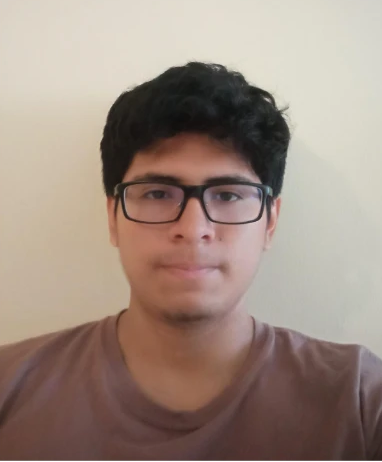
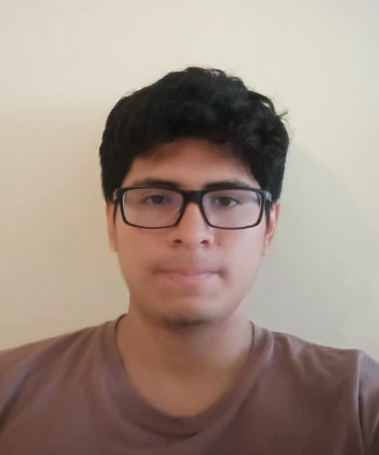
fix: corrected route mathias's picture
i fixed the route of the tag image.

diff --git a/upc-pre-202402-cc238-SW63-techzo-report.md b/upc-pre-202402-cc238-SW63-techzo-report.md
@@ -69,7 +69,7 @@ A continuación, presentaremos los perfiles de los integrantes del equipo encarg
 | **Integrante**                         | **Perfil**                                                                                                                                                                                                                                                                                                                                                                                                                                                                                                | **Imagen**                                                                                                       |
 | -------------------------------------- | --------------------------------------------------------------------------------------------------------------------------------------------------------------------------------------------------------------------------------------------------------------------------------------------------------------------------------------------------------------------------------------------------------------------------------------------------------------------------------------------------------- | ---------------------------------------------------------------------------------------------------------------- |
 | **Huamani Mandujano, Joseph Alexis - u20221a133**             |Mi nombre es Joseph Huamani, soy estudiante de 5to ciclo en la carrera de Ingeniería de Software en la UPC. La razón por la cual elegí esta carrera es porque desde pequeño siempre me ha gustado la tecnología, el cómo es el funcionamiento y la creación de los programas que uso en mí día a día.  Por ello, en este curso me  comprometo a ser un buen integrante para mi grupo y dar lo  mejor de mí en los trabajos con las habilidades técnicas como dominio en los lenguajes C++, Python y Javascript y habillidades blandas como trabajo en equipo, responsabillidad y resolución de problemas. | <img src="https://github.com/MaCo-CC238-SW63/Report/blob/main/Resources/Profiles/josephhuamani.png?raw=true" alt="Imagen de Joseph Huamani" />                |
-| **Mendoza Carrión, Mathias André - u202216282** |Soy Mathias Andre Mendoza Carrión, un estudiante de 19 años de Ingeniería de Software en el quinto ciclo. Me caracterizo por ser organizado, trabajar bien en equipo y ser responsable. En este momento, mi enfoque principal es el aprendizaje profundo y práctico en el desarrollo de software. Aspiro a dominar nuevas tecnologías y habilidades, así como a comprender en detalle los principios fundamentales detrás del desarrollo de aplicaciones.| <img src="https://github.com/TechZoOrganization-OpenSource/upc-pre-202401-si729-SW54-techzo-report/blob/main/Resources/Profiles/mathiasmendoza.png?raw=true" alt="Imagen de Mathias Mendoza"/> |
+| **Mendoza Carrión, Mathias André - u202216282** |Soy Mathias Andre Mendoza Carrión, un estudiante de 19 años de Ingeniería de Software en el quinto ciclo. Me caracterizo por ser organizado, trabajar bien en equipo y ser responsable. En este momento, mi enfoque principal es el aprendizaje profundo y práctico en el desarrollo de software. Aspiro a dominar nuevas tecnologías y habilidades, así como a comprender en detalle los principios fundamentales detrás del desarrollo de aplicaciones.| <img src="https://github.com/MaCo-CC238-SW63/Report/blob/main/Resources/Profiles/mathiasmendoza.png?raw=true" alt="Imagen de Mathias Mendoza"/> |
 | **Quispe Andia, Jeremy Joel - u202216279** |Mi nombre es Diego Anderson Criollo de La Cruz, soy estudiante de 5to ciclo de la carrera de Ingeniería de Software. Me gusta mucho emplear soluciones creativas y que busquen eficiencia para poder aborder de esta forma cualquier desafío de la mejor manera. Como miembro del grupo, pretendo aportar con todos mis conocimientos en el desarrollo web tanto como en el front-end y back-end,  además de siempre colaborar con mis ideas y soluciones ante cualquier dificultad que se presente en el desarrollo. Espero poder aprender mucho de mis compañeros y que todos juntos podamos emplear de manera adecuada las tecnologías que iremos aprendiendo a lo largo del desarrollo del proyecto.| <img src="https://github.com/MaCo-CC238-SW63/Report/blob/main/Resources/Profiles/jeremyquispe.jpeg?raw=true" alt="Imagen de Jeremy Quispe"/>                 |
 | **Santisteban Palomino, Ian Haziel Donato - u202214059**     |Mi nombre es Ian Haziel Donato Santisteban Palomino y estoy cursando el quinto ciclo de la carrera de Ingeniería de Software. Me apasiona la resolución de problemas mediante la aplicación de conceptos y tecnologías innovadoras. Como miembro del equipo, aporto un sólido conocimiento en desarrollo de software y un compromiso constante con la excelencia en cada proyecto en el que participo. Estoy emocionado por aprender y colaborar con el equipo, así como por adquirir nuevas habilidades y conocimientos en las tecnologías que utilizaremos en nuestro trabajo.    | <img src="https://github.com/MaCo-CC238-SW63/Report/blob/main/Resources/Profiles/iansantisteban.png?raw=true" alt="Imagen de Ian Santisteban"/> |
 
